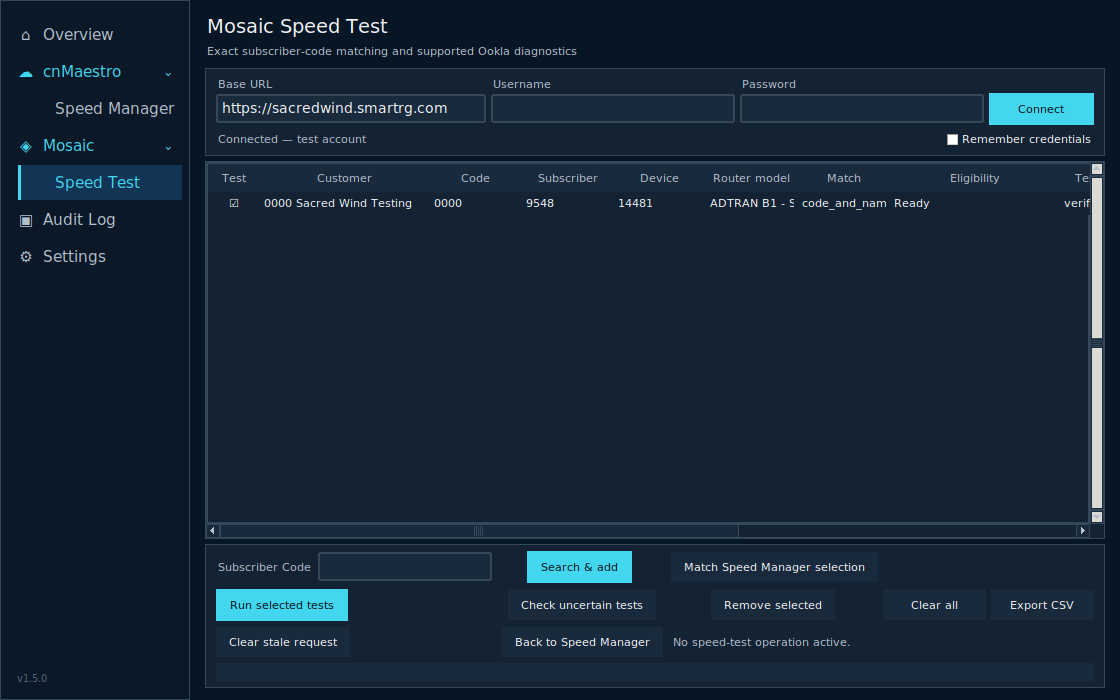
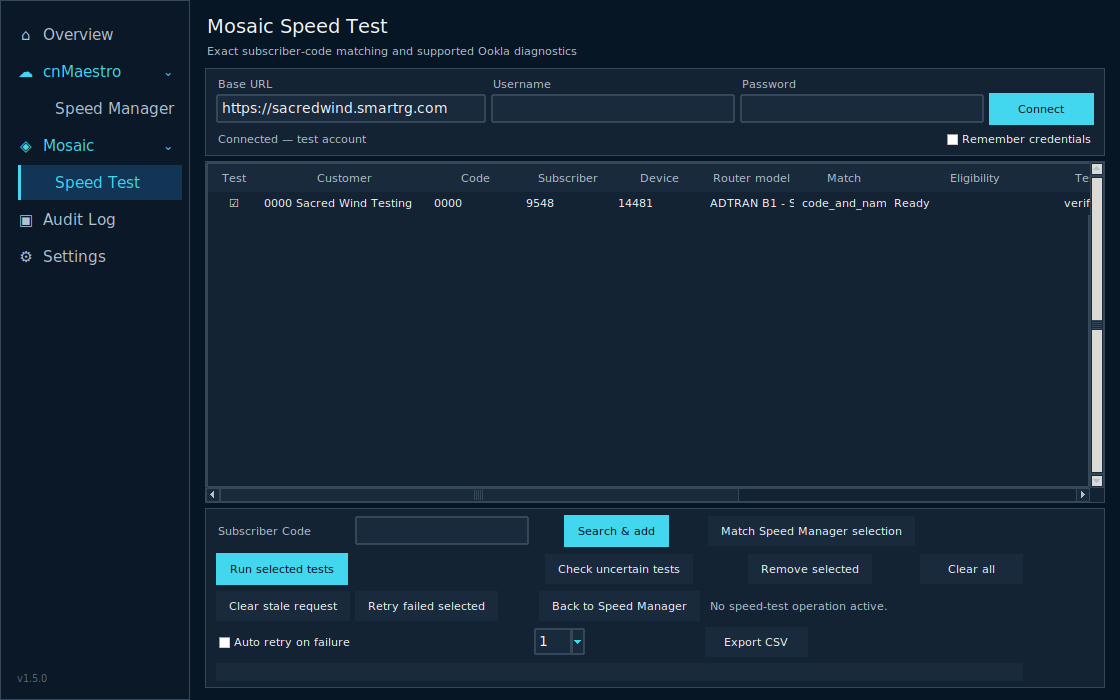
feat: add safe speed-test retries
Add bounded opt-in automatic retries and manual failed-row retry while preserving ambiguity locks and fresh preflight checks.

diff --git a/cnmaestro_speed_manager.py b/cnmaestro_speed_manager.py
@@ -4,7 +4,7 @@ from pathlib import Path
 import tkinter as tk
 from tkinter import ttk,messagebox,filedialog
 import httpx,truststore,keyring
-from mosaic_service import (AmbiguousSubmissionError,DEFAULT_MOSAIC_URL,MosaicJournal,MosaicPortalClient,evaluate_eligibility,execute_journaled_ookla,forget_mosaic_credentials,reconcile_journal_entry,latest_speed_result,load_mosaic_credentials,ookla_action_complete,match_subscriber,parse_customer_identity,save_mosaic_credentials)
+from mosaic_service import (AmbiguousSubmissionError,DEFAULT_MOSAIC_URL,MosaicJournal,MosaicPortalClient,evaluate_eligibility,execute_journaled_ookla,forget_mosaic_credentials,reconcile_journal_entry,latest_speed_result,load_mosaic_credentials,ookla_action_complete,match_subscriber,parse_customer_identity,save_mosaic_credentials,retryable_mosaic_outcome)
 from keyring.errors import PasswordDeleteError
 APP_VERSION='1.5.0';APP_DIR=Path(sys.executable).parent if getattr(sys,'frozen',False) else Path(__file__).resolve().parent;UPDATE_CONFIG=APP_DIR/'update_config.json';DEFAULT_MANIFEST_URL='https://raw.githubusercontent.com/dogekamii/Operations-Toolkit/refs/heads/main/latest.json'
 PKGS={"6 Mbps":("6mbps Package",6451,2150),"10 Mbps":("10mbps Package",10752,1075),"15 Mbps":("15mbps Package",16128,3225),"20 Mbps":("20mbps Package",21500,10752),"25 Mbps":("25mbps Package",26880,3225),"50 Mbps":("50mbps Package",53760,10750),"75 Mbps":("75mbps Package",80640,10750),"100 Mbps":("100mbps Package",107520,21500)}
@@ -172,7 +172,7 @@ class App(tk.Tk):
   self.pages={}
   for key in ('overview','speed_manager','mosaic_speed_test','audit','settings'):
    page=ttk.Frame(self.content,padding=(15,12));page.grid(row=0,column=0,sticky='nsew');self.pages[key]=page
-  self.auth=tk.StringVar(value='https://cloud.cambiumnetworks.com');self.cid=tk.StringVar();self.sec=tk.StringVar();self.remember_credentials=tk.BooleanVar(value=False);self.status=tk.StringVar(value='Disconnected');self.theme=tk.StringVar(value='Dark');self._loading_credentials=False;self.secret_client_id=None;self.loaded_secret_client_id=None;self.cid.trace_add('write',self.on_client_id_changed);self.sec.trace_add('write',self.on_client_secret_changed);self.mosaic_base_url=tk.StringVar(value=DEFAULT_MOSAIC_URL);self.mosaic_username=tk.StringVar();self.mosaic_password=tk.StringVar();self.mosaic_remember=tk.BooleanVar(value=False);self.mosaic_status=tk.StringVar(value='Disconnected');self.mosaic_search_code=tk.StringVar()
+  self.auth=tk.StringVar(value='https://cloud.cambiumnetworks.com');self.cid=tk.StringVar();self.sec=tk.StringVar();self.remember_credentials=tk.BooleanVar(value=False);self.status=tk.StringVar(value='Disconnected');self.theme=tk.StringVar(value='Dark');self._loading_credentials=False;self.secret_client_id=None;self.loaded_secret_client_id=None;self.cid.trace_add('write',self.on_client_id_changed);self.sec.trace_add('write',self.on_client_secret_changed);self.mosaic_base_url=tk.StringVar(value=DEFAULT_MOSAIC_URL);self.mosaic_username=tk.StringVar();self.mosaic_password=tk.StringVar();self.mosaic_remember=tk.BooleanVar(value=False);self.mosaic_status=tk.StringVar(value='Disconnected');self.mosaic_search_code=tk.StringVar();self.mosaic_auto_retry=tk.BooleanVar(value=False);self.mosaic_retry_count_value=tk.StringVar(value='1')
   self.build_speed_manager();self.build_mosaic_speed_test();self.build_overview();self.build_audit_page();self.build_settings();self.progtext.trace_add('write',self.on_publish_progress_changed)
  def add_nav_row(self,key,label,icon,parent=None,indent=0):
   c=self.colors;holder=parent or self.nav_container;row=tk.Frame(holder,bg=c['sidebar'],height=35,cursor='hand2');row.pack(fill='x',padx=(5+indent,7),pady=1);row.pack_propagate(False)
@@ -248,7 +248,7 @@ class App(tk.Tk):
   o,t=self.card(p,0,0);o.grid(row=3,column=0,sticky='nsew',pady=(0,5));t.columnconfigure(0,weight=1);t.rowconfigure(0,weight=1);cols=('select','customer','code','subscriber','device','model','match','eligibility','state','test_time','download','upload','latency','jitter');heads=('Test','Customer','Code','Subscriber','Device','Router model','Match','Eligibility','Test status','Test time (UTC)','Download','Upload','Latency','Jitter');self.mosaic_tree=ttk.Treeview(t,columns=cols,show='headings',selectmode='none',height=10)
   for col,head in zip(cols,heads):self.mosaic_tree.heading(col,text=head);self.mosaic_tree.column(col,width=52 if col=='select' else (170 if col in ('customer','eligibility') else (155 if col=='test_time' else 92)),stretch=False,anchor='center' if col=='select' else 'w')
   self.mosaic_tree.bind('<Button-1>',self.mosaic_tree_click);y=ttk.Scrollbar(t,orient='vertical',command=self.mosaic_tree.yview);x=ttk.Scrollbar(t,orient='horizontal',command=self.mosaic_tree.xview);self.mosaic_tree.configure(yscrollcommand=y.set,xscrollcommand=x.set);self.mosaic_tree.grid(row=0,column=0,sticky='nsew');y.grid(row=0,column=1,sticky='ns');x.grid(row=1,column=0,sticky='ew')
-  o,a=self.card(p,10,6);o.grid(row=4,column=0,sticky='ew');ttk.Label(a,text='Subscriber Code',style='SurfaceMuted.TLabel').grid(row=0,column=0,sticky='w');self.mosaic_search_entry=ttk.Entry(a,textvariable=self.mosaic_search_code,width=18);self.mosaic_search_entry.grid(row=0,column=1,padx=(5,5));self.mosaic_search_button=ttk.Button(a,text='Search & add',style='Accent.TButton',command=self.search_mosaic_subscriber);self.mosaic_search_button.grid(row=0,column=2);self.mosaic_find_button=ttk.Button(a,text='Match Speed Manager selection',command=self.find_mosaic_matches);self.mosaic_find_button.grid(row=0,column=3,padx=(8,0));self.mosaic_run_button=ttk.Button(a,text='Run selected tests',style='Accent.TButton',command=self.run_selected_mosaic_tests);self.mosaic_run_button.grid(row=1,column=0,columnspan=2,pady=(6,0),sticky='w');self.mosaic_reconcile_button=ttk.Button(a,text='Check uncertain tests',command=self.reconcile_mosaic_unknown);self.mosaic_reconcile_button.grid(row=1,column=2,padx=(5,0),pady=(6,0));self.mosaic_remove_button=ttk.Button(a,text='Remove selected',command=self.clear_selected_mosaic_candidates);self.mosaic_remove_button.grid(row=1,column=3,padx=(5,0),pady=(6,0));self.mosaic_clear_button=ttk.Button(a,text='Clear all',command=self.clear_all_mosaic_candidates);self.mosaic_clear_button.grid(row=1,column=4,padx=(5,0),pady=(6,0));self.mosaic_export_button=ttk.Button(a,text='Export CSV',command=self.export_mosaic_csv);self.mosaic_export_button.grid(row=1,column=5,padx=(5,0),pady=(6,0));self.mosaic_clear_stale_button=ttk.Button(a,text='Clear stale request',command=self.clear_selected_stale_request);self.mosaic_clear_stale_button.grid(row=2,column=0,columnspan=2,sticky='w',pady=(6,0));self.mosaic_back_button=ttk.Button(a,text='Back to Speed Manager',command=lambda:self.show_page('speed_manager'));self.mosaic_back_button.grid(row=2,column=2,sticky='w',padx=(5,0),pady=(6,0));self.mosaic_action_status=tk.StringVar(value='No speed-test operation active.');ttk.Label(a,textvariable=self.mosaic_action_status,style='SurfaceMuted.TLabel').grid(row=2,column=3,columnspan=3,sticky='w',padx=(8,0),pady=(6,0));self.mosaic_progress=ttk.Progressbar(a,mode='determinate');self.mosaic_progress.grid(row=3,column=0,columnspan=6,sticky='ew',pady=(6,0))
+  o,a=self.card(p,10,6);o.grid(row=4,column=0,sticky='ew');ttk.Label(a,text='Subscriber Code',style='SurfaceMuted.TLabel').grid(row=0,column=0,sticky='w');self.mosaic_search_entry=ttk.Entry(a,textvariable=self.mosaic_search_code,width=18);self.mosaic_search_entry.grid(row=0,column=1,padx=(5,5));self.mosaic_search_button=ttk.Button(a,text='Search & add',style='Accent.TButton',command=self.search_mosaic_subscriber);self.mosaic_search_button.grid(row=0,column=2);self.mosaic_find_button=ttk.Button(a,text='Match Speed Manager selection',command=self.find_mosaic_matches);self.mosaic_find_button.grid(row=0,column=3,padx=(8,0));self.mosaic_auto_retry_check=ttk.Checkbutton(a,text='Auto retry on failure',variable=self.mosaic_auto_retry);self.mosaic_auto_retry_check.grid(row=3,column=0,columnspan=2,pady=(6,0),sticky='w');self.mosaic_retry_count=ttk.Combobox(a,textvariable=self.mosaic_retry_count_value,values=('1','2','3'),state='readonly',width=3);self.mosaic_retry_count.grid(row=3,column=2,pady=(6,0),sticky='w');self.mosaic_run_button=ttk.Button(a,text='Run selected tests',style='Accent.TButton',command=self.run_selected_mosaic_tests);self.mosaic_run_button.grid(row=1,column=0,columnspan=2,pady=(6,0),sticky='w');self.mosaic_reconcile_button=ttk.Button(a,text='Check uncertain tests',command=self.reconcile_mosaic_unknown);self.mosaic_reconcile_button.grid(row=1,column=2,padx=(5,0),pady=(6,0));self.mosaic_remove_button=ttk.Button(a,text='Remove selected',command=self.clear_selected_mosaic_candidates);self.mosaic_remove_button.grid(row=1,column=3,padx=(5,0),pady=(6,0));self.mosaic_clear_button=ttk.Button(a,text='Clear all',command=self.clear_all_mosaic_candidates);self.mosaic_clear_button.grid(row=1,column=4,padx=(5,0),pady=(6,0));self.mosaic_export_button=ttk.Button(a,text='Export CSV',command=self.export_mosaic_csv);self.mosaic_export_button.grid(row=3,column=3,padx=(5,0),pady=(6,0),sticky='w');self.mosaic_clear_stale_button=ttk.Button(a,text='Clear stale request',command=self.clear_selected_stale_request);self.mosaic_clear_stale_button.grid(row=2,column=0,sticky='w',pady=(6,0));self.mosaic_retry_failed_button=ttk.Button(a,text='Retry failed selected',command=self.retry_failed_mosaic_tests);self.mosaic_retry_failed_button.grid(row=2,column=1,sticky='w',padx=(5,0),pady=(6,0));self.mosaic_back_button=ttk.Button(a,text='Back to Speed Manager',command=lambda:self.show_page('speed_manager'));self.mosaic_back_button.grid(row=2,column=2,sticky='w',padx=(5,0),pady=(6,0));self.mosaic_action_status=tk.StringVar(value='No speed-test operation active.');ttk.Label(a,textvariable=self.mosaic_action_status,style='SurfaceMuted.TLabel').grid(row=2,column=3,columnspan=3,sticky='w',padx=(8,0),pady=(6,0));self.mosaic_progress=ttk.Progressbar(a,mode='determinate');self.mosaic_progress.grid(row=4,column=0,columnspan=6,sticky='ew',pady=(6,0))
  def on_publish_progress_changed(self,*_):
   text=self.progtext.get()
   if not text.startswith('Completed |') or text==self._publish_handoff_signature:return
@@ -368,7 +368,7 @@ class App(tk.Tk):
  def post_mosaic_progress(self,candidate,index,total,stage,outcome=None):
   self.mosaic_progress_events.put({'key':candidate.get('key'),'index':index,'total':total,'stage':stage,'outcome':outcome})
  def apply_mosaic_outcome(self,candidate,outcome):
-  candidate['state']=outcome.get('state','unknown')
+  candidate['state']=outcome.get('state','unknown');candidate['retryable']=retryable_mosaic_outcome(outcome);candidate['attempts']=int(outcome.get('attempts') or 1)
   if outcome.get('metrics'):candidate.update(outcome['metrics'])
   if outcome.get('cleanup',{}).get('unknown'):candidate['stale_pending']=True;candidate['eligibility']='Result verified; stale cleanup needs review'
   elif outcome.get('cleanup',{}).get('cleared'):candidate['stale_pending']=False
@@ -395,15 +395,30 @@ class App(tk.Tk):
   if not self.mosaic_api:return messagebox.showerror('Mosaic','Connect to Mosaic first')
   selected=[c for c in self.mosaic_candidates if c['key'] in self.mosaic_checked and c.get('eligible')]
   if not selected:return messagebox.showinfo('Mosaic','Select at least one eligible router.')
+  self.start_mosaic_test_batch(selected)
+ def retry_failed_mosaic_tests(self):
+  if self.mosaic_running:return
+  if not self.mosaic_api:return messagebox.showerror('Mosaic','Connect to Mosaic first')
+  selected=[c for c in self.mosaic_candidates if c.get('key') in self.mosaic_checked and c.get('eligible') and c.get('state')=='failed' and c.get('retryable') is True]
+  if not selected:return messagebox.showinfo('Mosaic','Select at least one retryable failed row. Unknown or locked outcomes cannot be retried.')
+  self.start_mosaic_test_batch(selected)
+ def start_mosaic_test_batch(self,selected):
   while True:
    try:self.mosaic_progress_events.get_nowait()
    except queue.Empty:break
-  total=len(selected);self.mosaic_running=True;self.mosaic_run_button.configure(state='disabled');self.mosaic_progress.configure(maximum=total,value=0);self.mosaic_action_status.set(f'Preparing bulk speed test for {total} customer(s)...');self.start_mosaic_progress_poll()
+  retry_limit=max(0,min(3,int(self.mosaic_retry_count.get() or '1'))) if self.mosaic_auto_retry.get() else 0
+  total=len(selected);self.mosaic_running=True;self.mosaic_run_button.configure(state='disabled');self.mosaic_retry_failed_button.configure(state='disabled');self.mosaic_progress.configure(maximum=total,value=0);self.mosaic_action_status.set(f'Preparing bulk speed test for {total} customer(s)...');self.start_mosaic_progress_poll()
   async def work():
    outcomes=[]
    for index,candidate in enumerate(selected,1):
-    progress=lambda stage,candidate=candidate,index=index:self.post_mosaic_progress(candidate,index,total,stage)
-    outcome=await execute_journaled_ookla(self.mosaic_api,self.mosaic_journal,str(candidate['subscriber_code']),str(candidate['device_id']),str(candidate.get('model') or ''),record=candidate['record'],progress=progress);outcomes.append((candidate.get('key'),outcome));self.post_mosaic_progress(candidate,index,total,outcome.get('state','unknown').title(),outcome)
+    attempt=0
+    while True:
+     attempt+=1
+     progress=lambda stage,candidate=candidate,index=index,attempt=attempt:self.post_mosaic_progress(candidate,index,total,f'Attempt {attempt}: {stage}')
+     outcome=await execute_journaled_ookla(self.mosaic_api,self.mosaic_journal,str(candidate['subscriber_code']),str(candidate['device_id']),str(candidate.get('model') or ''),record=candidate['record'],progress=progress);outcome['attempts']=attempt
+     if retryable_mosaic_outcome(outcome) and attempt<=retry_limit:
+      self.post_mosaic_progress(candidate,index,total,f'Retrying {attempt} of {retry_limit} in 5 seconds');await asyncio.sleep(5);continue
+     outcomes.append((candidate.get('key'),outcome));self.post_mosaic_progress(candidate,index,total,outcome.get('state','unknown').title(),outcome);break
    return outcomes
   self.bg(work(),self.finish_mosaic_tests)
  def finish_mosaic_tests(self,result,error):
@@ -411,9 +426,9 @@ class App(tk.Tk):
   if self.mosaic_progress_after:
    try:self.after_cancel(self.mosaic_progress_after)
    except Exception:pass
-  self.mosaic_progress_after=None;self.drain_mosaic_progress();self.mosaic_run_button.configure(state='normal');self.render_mosaic_candidates()
+  self.mosaic_progress_after=None;self.drain_mosaic_progress();self.mosaic_run_button.configure(state='normal');self.mosaic_retry_failed_button.configure(state='normal');self.render_mosaic_candidates()
   if error:self.mosaic_action_status.set('Speed-test error: '+str(error));return
-  states=[outcome.get('state') for _,outcome in (result or [])];self.mosaic_action_status.set(f"Bulk complete — Verified {states.count('verified')} | Failed {states.count('failed')} | Unknown {states.count('unknown')} | Ineligible {states.count('ineligible')}")
+  states=[outcome.get('state') for _,outcome in (result or [])];retries=sum(max(0,int(outcome.get('attempts') or 1)-1) for _,outcome in (result or []));self.mosaic_action_status.set(f"Bulk complete — Verified {states.count('verified')} | Failed {states.count('failed')} | Unknown {states.count('unknown')} | Ineligible {states.count('ineligible')} | Retries {retries}")
  def reconcile_mosaic_unknown(self):
   if not self.mosaic_api:return messagebox.showerror('Mosaic','Connect to Mosaic first')
   entries=self.mosaic_journal.unresolved()

diff --git a/tests/test_mosaic_ui.py b/tests/test_mosaic_ui.py
@@ -260,6 +260,41 @@ class MosaicUiTests(unittest.TestCase):
         self.assertNotIn("RUN SPEED TESTS", inspect.getsource(toolkit.App.run_selected_mosaic_tests))
 
 
+    def test_auto_retry_controls_are_bounded_and_off_by_default(self):
+        self.assertFalse(self.app.mosaic_auto_retry.get())
+        self.assertEqual(tuple(self.app.mosaic_retry_count.cget("values")), ("1", "2", "3"))
+        self.assertEqual(self.app.mosaic_retry_count.get(), "1")
+        self.assertEqual(self.app.mosaic_retry_failed_button.cget("text"), "Retry failed selected")
+
+    def test_auto_retry_retries_only_explicit_retryable_failure(self):
+        self.app.mosaic_api=object();candidate={"key":"2","device_id":"2","subscriber_code":"10014","model":"SDG","eligible":True,"record":{"fields":{}},"state":"ready","customer":"Customer A"};self.app.mosaic_candidates=[candidate];self.app.mosaic_checked={"2"};self.app.mosaic_auto_retry.set(True);self.app.mosaic_retry_count.set("2")
+        outcomes=[{"state":"failed","retryable":True,"detail":"Mosaic diagnostic failed"},{"state":"verified","metrics":{"download_mbps":50},"cleanup":{}}]
+        async def execute(*args,**kwargs):return outcomes.pop(0)
+        captured={}
+        def synchronous(coro,callback):captured["result"]=asyncio.run(coro);callback(captured["result"],None)
+        with mock.patch.object(toolkit,"execute_journaled_ookla",side_effect=execute) as run, mock.patch.object(toolkit.asyncio,"sleep",new=mock.AsyncMock()), mock.patch.object(self.app,"bg",side_effect=synchronous), mock.patch.object(self.app,"start_mosaic_progress_poll"):
+            self.app.run_selected_mosaic_tests()
+        self.assertEqual(run.call_count,2)
+        self.assertEqual(captured["result"][0][1]["attempts"],2)
+        self.assertEqual(captured["result"][0][1]["state"],"verified")
+
+    def test_auto_retry_never_retries_unknown_outcome(self):
+        self.app.mosaic_api=object();candidate={"key":"2","device_id":"2","subscriber_code":"10014","model":"SDG","eligible":True,"record":{"fields":{}},"state":"ready","customer":"Customer A"};self.app.mosaic_candidates=[candidate];self.app.mosaic_checked={"2"};self.app.mosaic_auto_retry.set(True);self.app.mosaic_retry_count.set("3")
+        async def execute(*args,**kwargs):return {"state":"unknown","retryable":False,"detail":"ambiguous PUT"}
+        captured={}
+        def synchronous(coro,callback):captured["result"]=asyncio.run(coro);callback(captured["result"],None)
+        with mock.patch.object(toolkit,"execute_journaled_ookla",side_effect=execute) as run, mock.patch.object(self.app,"bg",side_effect=synchronous), mock.patch.object(self.app,"start_mosaic_progress_poll"):
+            self.app.run_selected_mosaic_tests()
+        self.assertEqual(run.call_count,1)
+        self.assertEqual(captured["result"][0][1]["attempts"],1)
+
+    def test_retry_failed_selected_runs_only_retryable_failed_rows(self):
+        self.app.mosaic_api=object()
+        retryable={"key":"2","eligible":True,"state":"failed","retryable":True};ordinary={"key":"3","eligible":True,"state":"failed","retryable":False};self.app.mosaic_candidates=[retryable,ordinary];self.app.mosaic_checked={"2","3"}
+        with mock.patch.object(self.app,"start_mosaic_test_batch") as start:
+            self.app.retry_failed_mosaic_tests()
+        start.assert_called_once_with([retryable])
+
     def test_progress_queue_updates_row_message_and_overall_bar(self):
         candidate={"key":"2","customer":"10014 Customer A","eligible":True,"state":"ready"}
         self.app.mosaic_candidates=[candidate];self.app.mosaic_running=True;self.app.mosaic_progress.configure(maximum=2,value=0)
@@ -301,7 +336,7 @@ class MosaicUiTests(unittest.TestCase):
 
     def test_ui_passes_match_record_to_fresh_preflight(self):
         import inspect
-        source = inspect.getsource(toolkit.App.run_selected_mosaic_tests)
+        source = inspect.getsource(toolkit.App.start_mosaic_test_batch)
         self.assertIn("record=candidate['record']", source)
 
     def test_mosaic_worker_does_not_call_tk_after_from_background_coroutine(self):
@@ -333,6 +368,12 @@ class MosaicUiTests(unittest.TestCase):
             self.app.mosaic_back_button.winfo_rootx() + self.app.mosaic_back_button.winfo_width(),
             self.app.winfo_rootx() + self.app.winfo_width(),
         )
+
+    def test_minimum_size_keeps_retry_and_export_controls_visible(self):
+        self.app.deiconify();self.app.geometry("1120x700+0+0");self.app.show_page("mosaic_speed_test");self.app.update_idletasks();self.app.update()
+        right=self.app.winfo_rootx()+self.app.winfo_width()
+        for control in (self.app.mosaic_auto_retry_check,self.app.mosaic_retry_count,self.app.mosaic_retry_failed_button,self.app.mosaic_export_button):
+            self.assertLessEqual(control.winfo_rootx()+control.winfo_width(),right)
 
     def test_unsupported_candidate_displays_reason_and_cannot_be_selected(self):
         self.app.mosaic_candidates = [{

diff --git a/tests/test_mosaic_service.py b/tests/test_mosaic_service.py
@@ -15,6 +15,7 @@ from mosaic_service import (
     evaluate_eligibility,
     execute_journaled_ookla,
     reconcile_journal_entry,
+    retryable_mosaic_outcome,
     latest_speed_result,
     match_subscriber,
     parse_customer_identity,
@@ -349,6 +350,7 @@ class JournaledExecutionTests(unittest.IsolatedAsyncioTestCase):
             journal=MosaicJournal(Path(directory)/"mosaic.db");client=self.FakeClient("diagnostic")
             outcome=await execute_journaled_ookla(client,journal,"10014","2","SDG",record=self.managed_record())
             self.assertEqual(outcome["state"],"failed")
+            self.assertTrue(outcome["retryable"])
             self.assertIn("unable to retrieve your ip info",outcome["detail"])
             self.assertEqual(journal.get(outcome["entry_id"])["state"],"failed")
             journal.assert_can_start("2")
@@ -370,6 +372,17 @@ class JournaledExecutionTests(unittest.IsolatedAsyncioTestCase):
             with self.assertRaisesRegex(RuntimeError, "unresolved"):
                 journal.assert_can_start("2")
 
+
+class RetryPolicyTests(unittest.TestCase):
+    def test_only_explicit_terminal_diagnostic_failure_is_retryable(self):
+        self.assertTrue(retryable_mosaic_outcome({"state":"failed","retryable":True,"detail":"Mosaic diagnostic failed: unable to retrieve your ip info"}))
+        for outcome in (
+            {"state":"unknown","retryable":True},
+            {"state":"failed","retryable":False},
+            {"state":"ineligible","retryable":True},
+            {"state":"verified","retryable":True},
+        ):
+            self.assertFalse(retryable_mosaic_outcome(outcome))
 
 class PortalClientTests(unittest.IsolatedAsyncioTestCase):
 

diff --git a/mosaic_service.py b/mosaic_service.py
@@ -49,6 +49,11 @@ class MosaicDiagnosticError(RuntimeError):
     """The router/Mosaic diagnostic reached a definite terminal error."""
 
 
+def retryable_mosaic_outcome(outcome: dict) -> bool:
+    """Allow retry only for a definite terminal failure explicitly marked safe."""
+    return outcome.get("state") == "failed" and outcome.get("retryable") is True
+
+
 def parse_customer_identity(value: str) -> CustomerIdentity | None:
     match = re.match(r"^\s*(\d{4,12})(?:\s+|[-_:]+)(.*?)\s*$", str(value or ""))
     if not match:
@@ -580,7 +585,7 @@ async def execute_journaled_ookla(client: MosaicPortalClient, journal: MosaicJou
         metrics = await client.wait_for_speed_result(device_id, previous_timestamp=previous.get("start_timestamp") if previous else None)
     except MosaicDiagnosticError as exc:
         journal.transition(entry_id, "failed", detail=str(exc));emit("Failed")
-        return {"entry_id": entry_id, "state": "failed", "detail": str(exc)}
+        return {"entry_id": entry_id, "state": "failed", "detail": str(exc), "retryable": True}
     except Exception as exc:
         journal.transition(entry_id, "unknown", detail=str(exc));emit("Unknown")
         return {"entry_id": entry_id, "state": "unknown", "detail": str(exc)}

diff --git a/README.md b/README.md
@@ -9,6 +9,7 @@ Operations Toolkit 1.5.0 is a local candidate that preserves the working cnMaest
 - Search & add appends multiple subscribers into one selected bulk queue without replacing prior rows or results.
 - Shows live per-customer stages and an overall progress bar while sequential tests run.
 - Surfaces terminal Mosaic diagnostic errors as definite failures so retries unlock without mislabeling them as missing results.
+- Offers manual retry for selected retryable failures and optional 1-3 automatic retries; unknown, ambiguous, locked, pending, and unsupported outcomes are never automatically retried. Each retry waits five seconds, creates a separate journal attempt, and repeats full eligibility preflight.
 - Adds capability preflight and clearly marks unsupported routers such as SR905acv instead of offering a test action.
 - Adds an in-app handoff after successful cnMaestro upgrades; it never starts tests automatically.
 - Shows test date/time in UTC and supports clearing visible rows or exporting Excel-compatible CSV.
